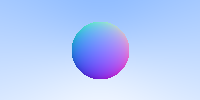
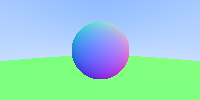
multiple objects

diff --git a/src/ORTRenderer.java b/src/ORTRenderer.java
@@ -15,13 +15,19 @@ public class ORTRenderer {
         vec3 vertical = new vec3(0, 2, 0);
         vec3 origin = new vec3(0, 0, 0);
 
+        hitable list[] = new hitable[2];
+        list[0] = new sphere(new vec3(0, 0, -1), .5f);
+        list[1] = new sphere(new vec3(0, -100.5f, -1), 100);
+
+        hitable world = new hitable_list(list);
+
         BufferedImage image = new BufferedImage(nx, ny, BufferedImage.TYPE_INT_ARGB);
         for (int y = 0; y < ny; y++) {
             for (int x = 0; x < nx; x++) {
                 float u = (float)x / nx;
                 float v = 1 - (float)y / ny;
                 ray r = new ray(origin, lower_left_corner.sum(horizontal.get_mul(u).sum(vertical.get_mul(v))));
-                image.setRGB(x, y, get_color(r).getRGB());
+                image.setRGB(x, y, get_color(r, world).getRGB());
             }
         }
 
@@ -30,30 +36,17 @@ public class ORTRenderer {
         } catch (IOException e) {}
     }
 
-    static Color get_color(ray r) {
-        float t = hit_sphere(new vec3(0, 0, -1), .5f, r);
-        if (t > 0) {
-            vec3 N = r.point_at(t);
-            N.sub(new vec3(0, 0, -1));
-            N.normalize();
-            N.add(new vec3(1, 1, 1));
-            N.mul(0.5f);
+    static Color get_color(ray r, hitable world) {
+        hit_record rec = new hit_record();
+        if (world.hit(r, 0, Float.MAX_VALUE, rec)) {
+            vec3 N = rec.normal.sum(new vec3(1, 1, 1)).get_mul(.5f);
             return new Color(N.x, N.y, N.z);
         }
 
         vec3 dir = r.dir.get_normal();
-        t = .5f * (dir.y + 1);
+        float t = .5f * (dir.y + 1);
         linear_color a = new linear_color(1, 1, 1);
         linear_color b = new linear_color(.5f, .7f, 1);
         return linear_color.lerp(a, b, t).to_color();
-    }
-
-    static float hit_sphere(vec3 center, float radius, ray r) {
-        vec3 oc = r.origin.diff(center);
-        float a = r.dir.dot(r.dir);
-        float b = 2 * oc.dot(r.dir);
-        float c = oc.dot(oc) - radius*radius;
-        float discriminant = b*b - 4*a*c;
-        return discriminant < 0 ? -1 : (-b - (float)Math.sqrt(discriminant)) / (2 * a);
     }
 }

diff --git a/src/sphere.java b/src/sphere.java
@@ -1,0 +1,40 @@
+public class sphere implements hitable {
+    public sphere() {}
+    public sphere(vec3 cen, float r) {
+        center = cen;
+        radius = r;
+    }
+
+    @Override
+    public boolean hit(ray r, float t_min, float t_max, hit_record rec) {
+        vec3 oc = r.origin.diff(center);
+        float a = r.dir.dot(r.dir);
+        float b = oc.dot(r.dir);
+        float c = oc.dot(oc) - radius*radius;
+        float discriminant = b*b - a*c;
+        if (discriminant > 0) {
+            ray_check check = (d_sqrt) -> {
+                float temp = (-b + d_sqrt) / a;
+                if (temp < t_max && temp > t_min) {
+                    rec.t = temp;
+                    rec.p = r.point_at(rec.t);
+                    rec.normal = rec.p.diff(center).get_div(radius);
+                    return true;
+                }
+                return false;
+            };
+            float d_sqrt = (float)Math.sqrt(discriminant);
+            if (check.check(-d_sqrt)) return true;
+            if (check.check(d_sqrt)) return true;
+        }
+        return false;
+    }
+
+    public vec3 center;
+    public float radius;
+}
+
+@FunctionalInterface
+interface ray_check {
+    boolean check(float d_sqrt);
+}

diff --git a/src/hitable_list.java b/src/hitable_list.java
@@ -1,0 +1,21 @@
+public class hitable_list implements hitable {
+    public hitable_list() {}
+    public hitable_list(hitable[] l) {
+        list = l;
+    }
+
+    @Override
+    public boolean hit(ray r, float t_min, float t_max, hit_record rec) {
+        boolean hit_anything = false;
+        float closest_so_far = t_max;
+        for (int i = 0; i < list.length; ++i) {
+            if (list[i].hit(r, t_min, closest_so_far, rec)) {
+                hit_anything = true;
+                closest_so_far = rec.t;
+            }
+        }
+        return hit_anything;
+    }
+
+    public hitable[] list;
+}

diff --git a/src/hitable.java b/src/hitable.java
@@ -1,0 +1,3 @@
+public interface hitable {
+    boolean hit(ray r, float t_min, float t_max, hit_record rec);
+}

diff --git a/src/hit_record.java b/src/hit_record.java
@@ -1,0 +1,5 @@
+public class hit_record {
+    float t;
+    vec3 p;
+    vec3 normal;
+}
